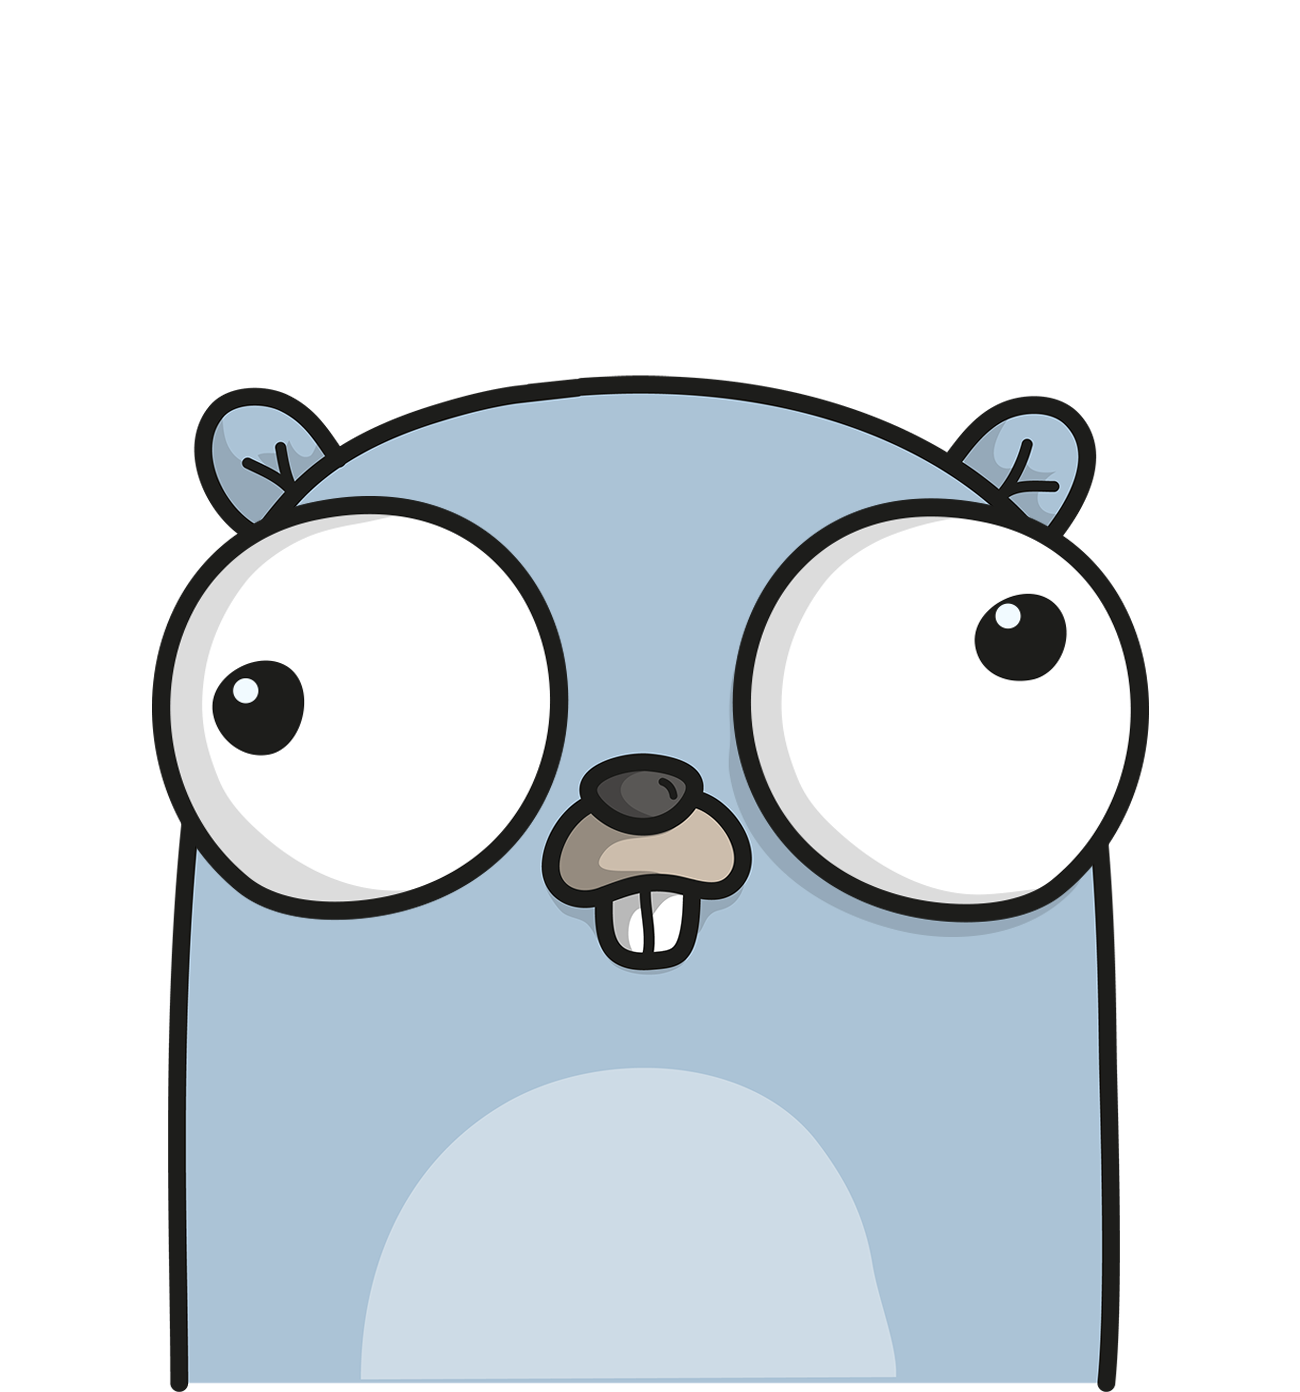
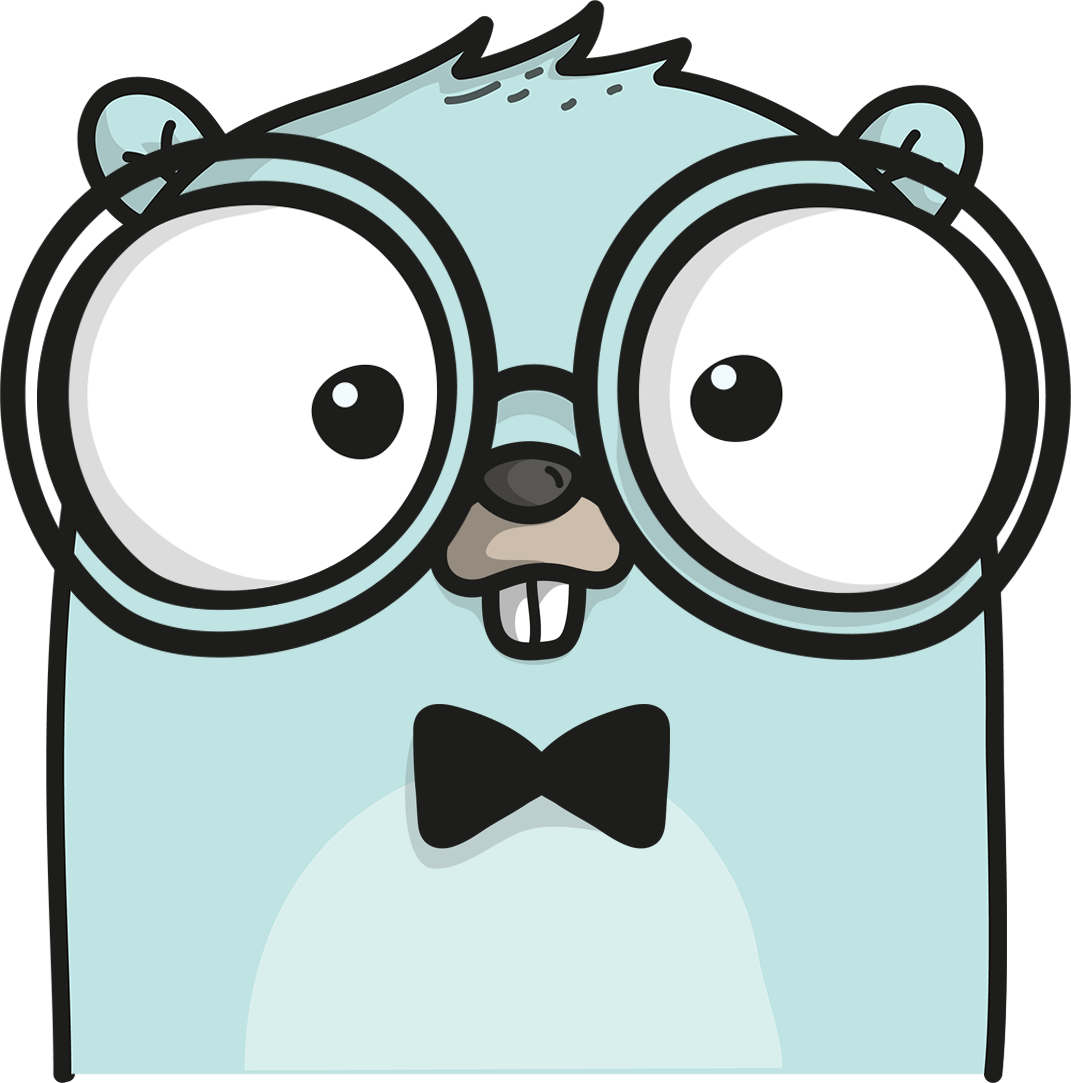
Publishing via publish.sh at Sun Aug 26 23:50:35 CST 2018

diff --git a/404.html b/404.html
@@ -72,7 +72,7 @@ ga('send', 'pageview');
     <span class='screen-reader-text'>Nothing&#39;s here!</span>
     <figure class='gopher'>
       <a href='/'>
-        <img src='/assets/gopher.png' alt='Gopher'/>
+        <img src='/assets/ferris-404.png' alt='Gopher'/>
         <span class='screen-reader-text'>Go Home...</span>
       </a>
       <figcaption>
